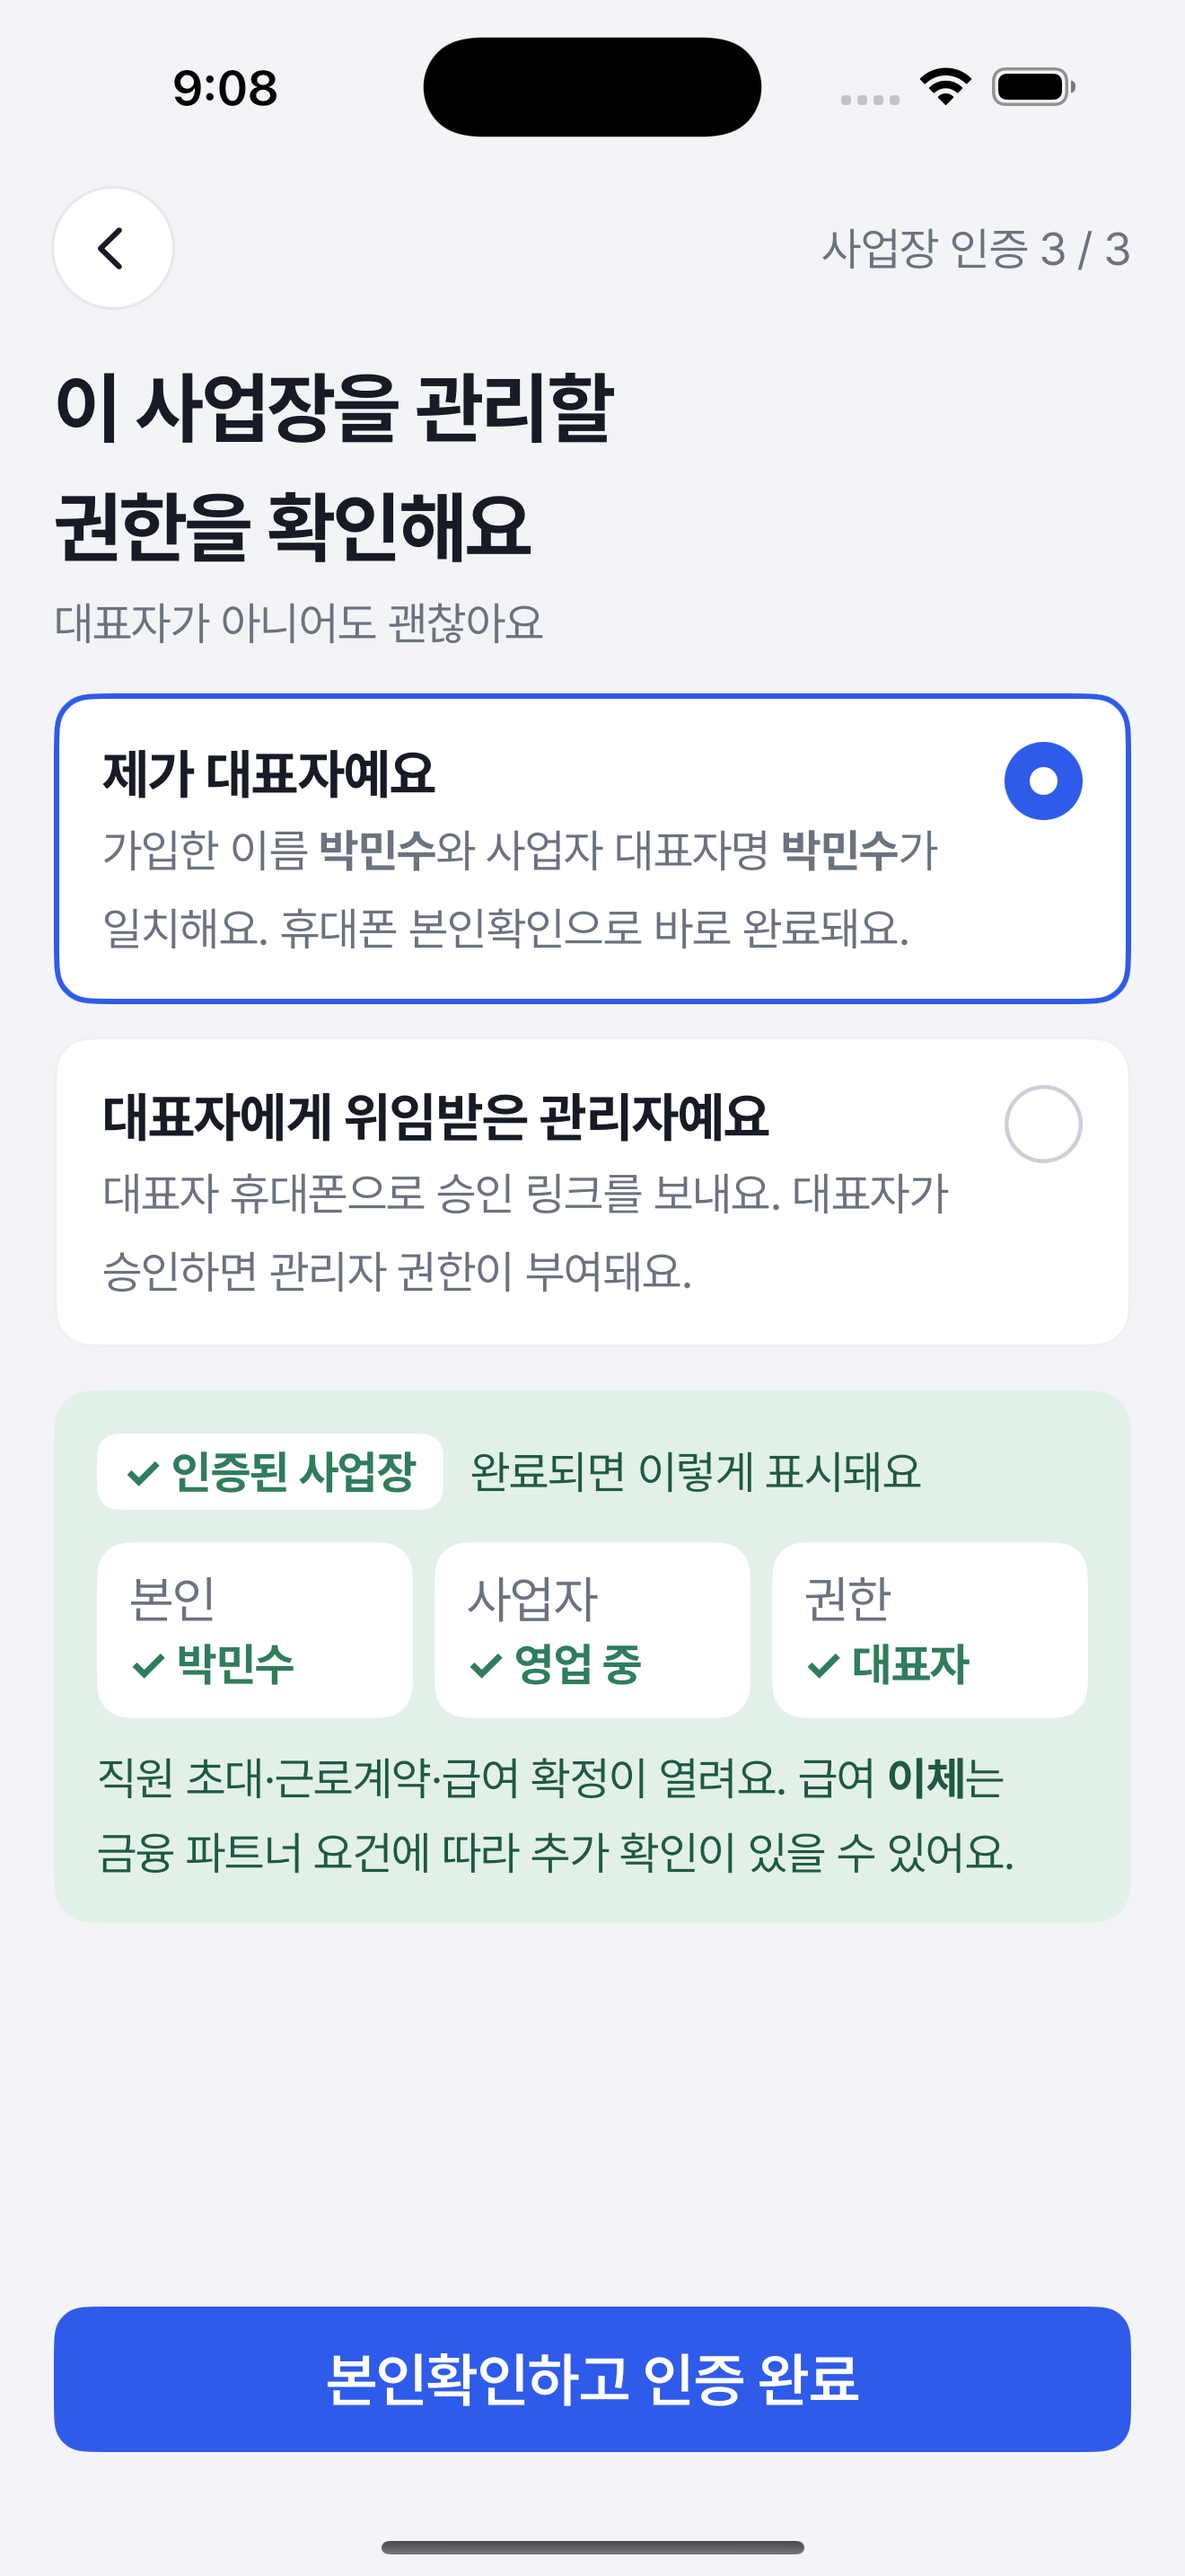
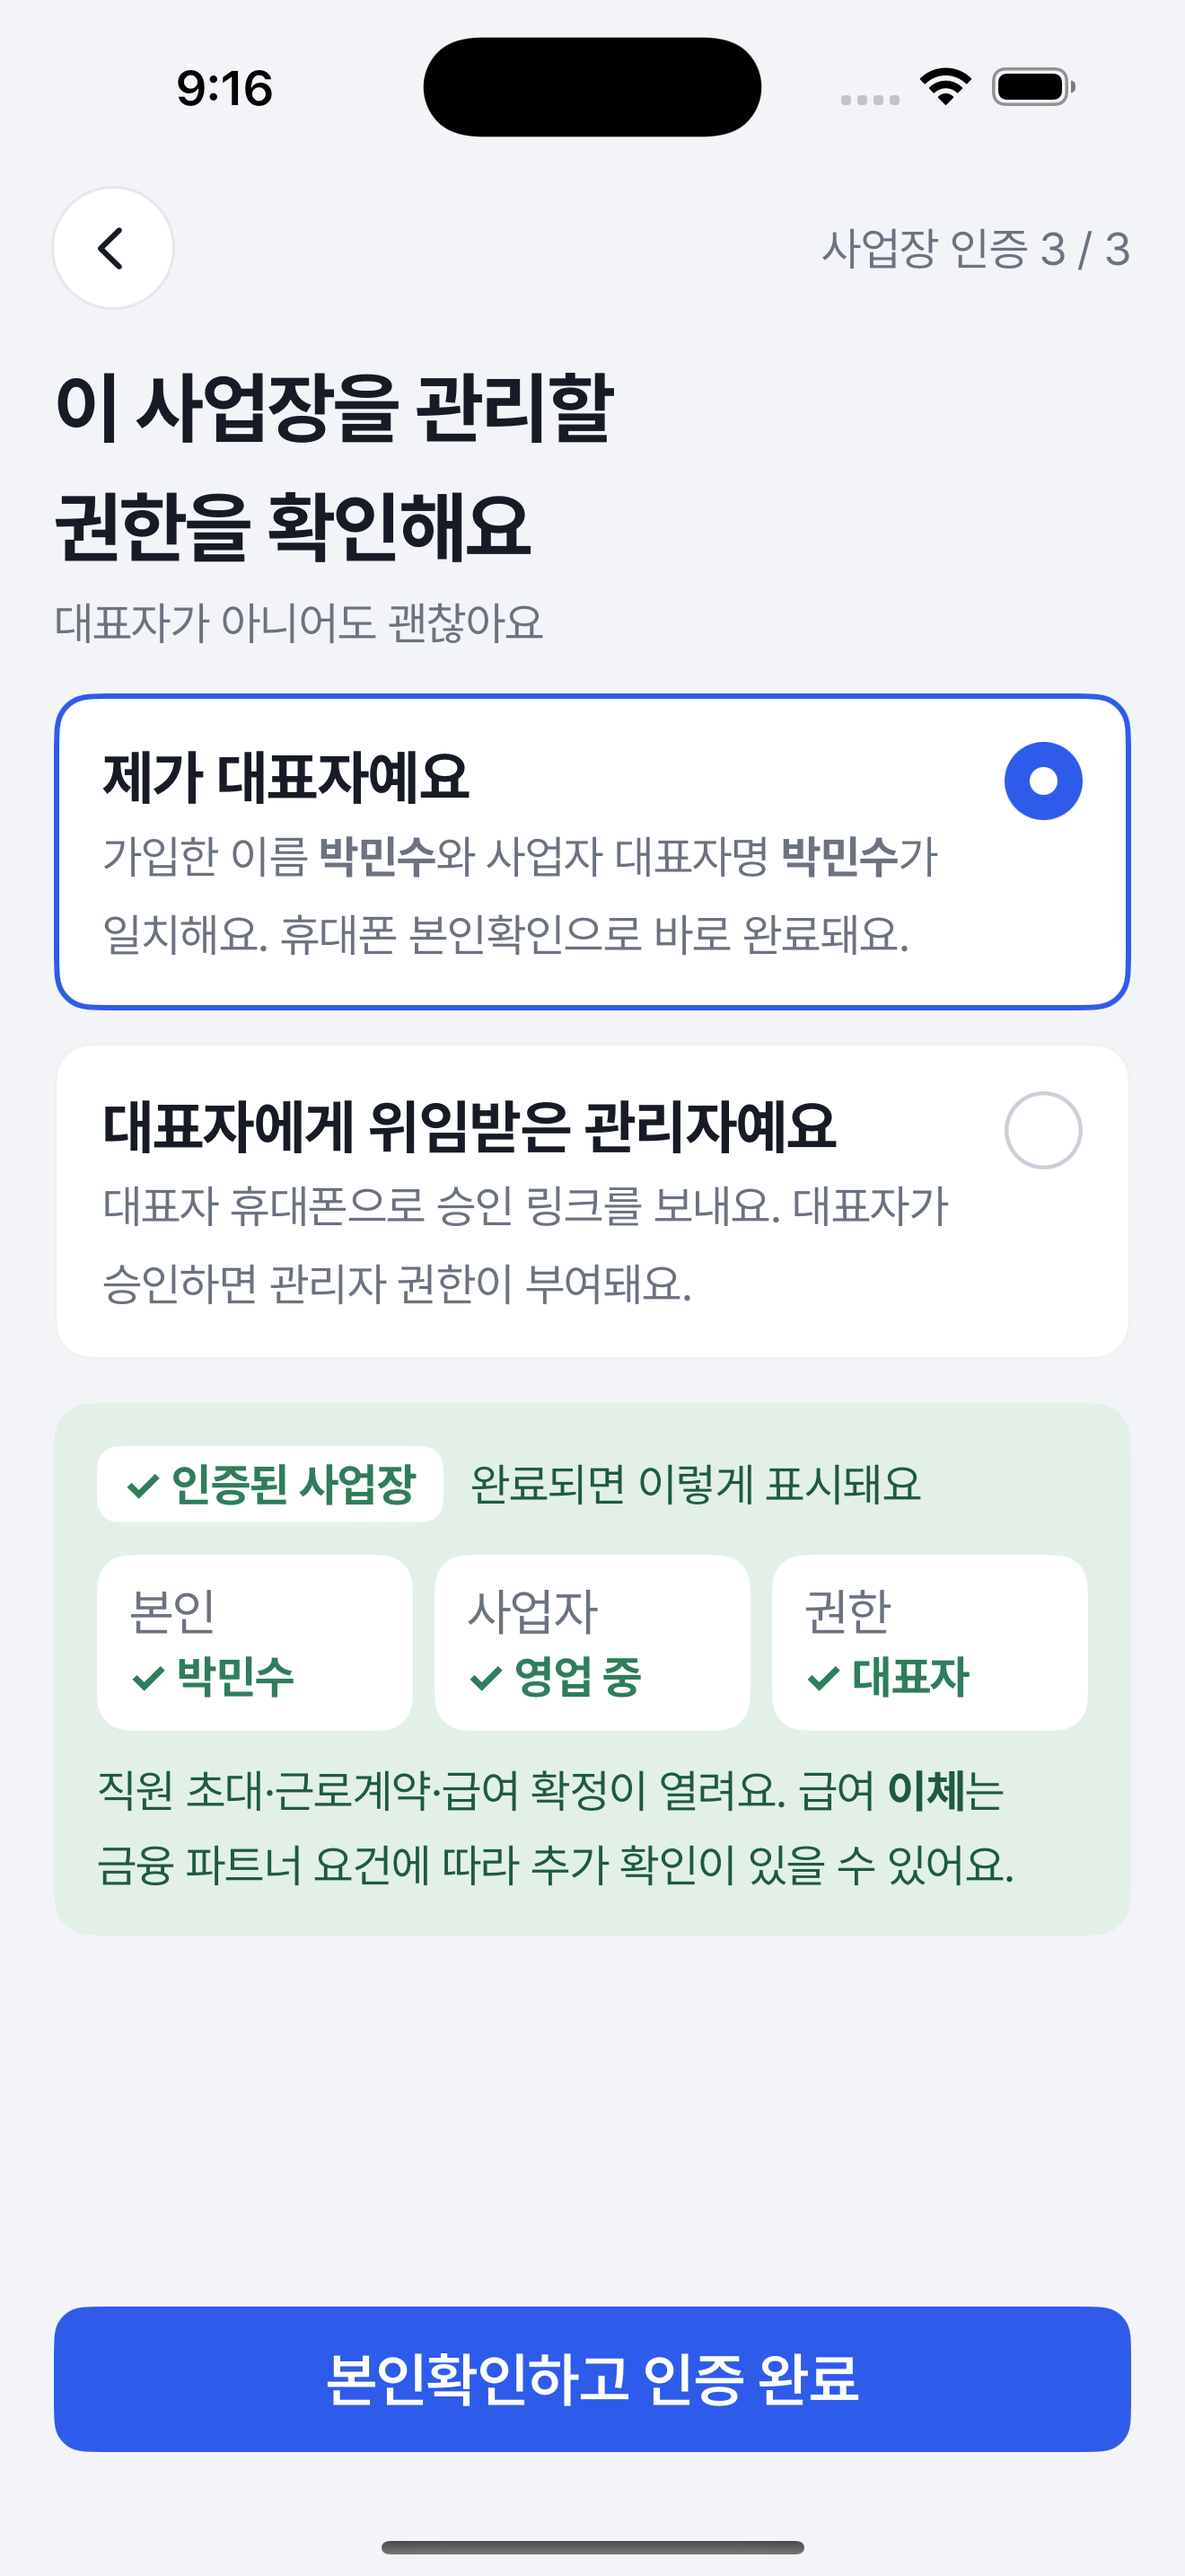
fix(workplace): 관리 권한 확인(5e) QA 반영 — 조사 · 음성 · 제목 단계
- 이름 받침에 맞게 와/과 · 가/이(문구는 원문 그대로)
- 미리보기 상자 음성에 배지 · 안내 문장 포함
- 카드 제목 글자 단계를 2c와 같은 headline으로
- 테스트 · 비교표 5e · 캡처 갱신

Refs #178 · UI-IOS-5e

Changed region(s): [[0.0621, 0.2793, 0.9629, 0.5275], [0.0932, 0.5586, 0.9008, 0.7448], [0.1553, 0.031, 0.2174, 0.0621]]

diff --git a/Pum/Pum/Features/Workplace/AuthorityVerify/AuthorityVerifyState.swift b/Pum/Pum/Features/Workplace/AuthorityVerify/AuthorityVerifyState.swift
@@ -29,10 +29,20 @@ nonisolated struct AuthorityVerifyState: Equatable, Sendable {
     static let previewLead = "완료되면 이렇게 표시돼요"
     static let noteBold = "이체"
 
+    /// 받침이 있으면 앞, 없으면 뒤 조사(「와/과」 · 「가/이」) — 문구는 원문 그대로, 이름에 맞는 조사만
+    static func particle(after word: String, withFinal: String, withoutFinal: String) -> String {
+        guard let last = word.unicodeScalars.last, (0xAC00...0xD7A3).contains(last.value) else { return withoutFinal }
+        return (last.value - 0xAC00) % 28 == 0 ? withoutFinal : withFinal
+    }
+    /// 「와」/「과」 — 가입한 이름 뒤
+    var signupNameParticle: String { Self.particle(after: signupName, withFinal: "과", withoutFinal: "와") }
+    /// 「가」/「이」 — 대표자명 뒤
+    var representativeParticle: String { Self.particle(after: representativeName, withFinal: "이", withoutFinal: "가") }
+
     /// 첫 카드 설명(굵기 없는 글자). 일치하지 않으면 첫 문장을 뺀다.
     var representativeDetailPlain: String {
         namesMatch
-            ? "가입한 이름 \(signupName)와 사업자 대표자명 \(representativeName)가 일치해요. \(Self.representativeTail)"
+            ? "가입한 이름 \(signupName)\(signupNameParticle) 사업자 대표자명 \(representativeName)\(representativeParticle) 일치해요. \(Self.representativeTail)"
             : Self.representativeTail
     }
 
@@ -41,7 +51,7 @@ nonisolated struct AuthorityVerifyState: Equatable, Sendable {
     }
 
     var previewAccessibilityText: String {
-        "완료되면, 본인 \(signupName) 확인, 사업자 \(businessStatus), 권한 \(authorityLabel)"
+        "\(Self.previewBadge), 완료되면, 본인 \(signupName) 확인, 사업자 \(businessStatus), 권한 \(authorityLabel). \(noteText)"
     }
 
     var canSubmit: Bool { !isSubmitting }

diff --git a/Pum/PumTests/Features/Workplace/AuthorityVerifyTests.swift b/Pum/PumTests/Features/Workplace/AuthorityVerifyTests.swift
@@ -19,12 +19,18 @@ struct AuthorityVerifyTests {
     }
 
     @Test func 미리보기_음성_안내() {
-        #expect(AuthorityVerifyState.sample.previewAccessibilityText == "완료되면, 본인 박민수 확인, 사업자 영업 중, 권한 대표자")
+        #expect(AuthorityVerifyState.sample.previewAccessibilityText.hasPrefix("인증된 사업장, 완료되면, 본인 박민수 확인, 사업자 영업 중, 권한 대표자. 직원 초대"))
     }
 
     @Test func 처리_중에는_다시_보내지_않는다() {
         var s = AuthorityVerifyState.sample
         s.isSubmitting = true
         #expect(!s.canSubmit)
+    }
+
+    @Test func 조사는_받침에_맞게() {
+        #expect(AuthorityVerifyState.particle(after: "박민수", withFinal: "과", withoutFinal: "와") == "와")
+        #expect(AuthorityVerifyState.particle(after: "홍길동", withFinal: "과", withoutFinal: "와") == "과")
+        #expect(AuthorityVerifyState.particle(after: "홍길동", withFinal: "이", withoutFinal: "가") == "이")
     }
 }

diff --git a/Pum/Pum/Features/Workplace/AuthorityVerify/AuthorityVerifyView.swift b/Pum/Pum/Features/Workplace/AuthorityVerify/AuthorityVerifyView.swift
@@ -89,7 +89,7 @@ struct AuthorityVerifyView: View {
     }
 
     private func cardTitle(_ s: String) -> some View {
-        Text(s).pumText(.body, weight: .bold).foregroundStyle(PumColor.textPrimary) // 16px 700
+        Text(s).pumText(.headline, weight: .bold).foregroundStyle(PumColor.textPrimary) // 16px 700 → headline(17), 2c와 같게
     }
 
     /// 이름만 굵게(13px 700)
@@ -104,9 +104,9 @@ struct AuthorityVerifyView: View {
         if state.namesMatch {
             part("가입한 이름 ", bold: false)
             part(state.signupName, bold: true)
-            part("와 사업자 대표자명 ", bold: false)
+            part("\(state.signupNameParticle) 사업자 대표자명 ", bold: false)
             part(state.representativeName, bold: true)
-            part("가 일치해요. ", bold: false)
+            part("\(state.representativeParticle) 일치해요. ", bold: false)
         }
         part(AuthorityVerifyState.representativeTail, bold: false)
         return Text(a).pumText(.footnote)

diff --git a/docs/design/compare/screens/README.md b/docs/design/compare/screens/README.md
@@ -633,3 +633,11 @@
 | 개업일 · 촬영 | 디자인 없음(값만) | 누름 클로저만 — 날짜 선택 · 카메라는 후속(실제 진입은 개업일을 채울 수 없어 연결 필요) | 후속 |
 | 조회 실패 · 휴업/폐업 | 디자인 없음 | 확인 중 잠금 · 실패면 풀림, 안내 문구 없음 | 디자인 필요 |
 | 등록번호 글자 | 22px 700 · 넓은 자간 | 화면 전용 이름 상수 | 토큰 후보 |
+
+## UI-IOS-5e 관리 권한 확인 — 사장님 (#178 · 배치 30)
+
+| 항목 | 디자인 | 구현 | 결과 |
+|---|---|---|---|
+| 배치 · 문구 | 사업장 인증 3 / 3 / 제목 · 안내 / 선택 카드 2(공통 PumChoiceCard) / 인증된 사업장 미리보기(본인 · 사업자 · 권한) · 안내 / 본인확인하고 인증 완료 | 같음 | 일치 |
+| 이름 조사 | 「박민수와 … 박민수가」 | 이름 받침에 맞게 와/과 · 가/이 자동(QA) | 구현 기준 |
+| 이름 불일치 · 위임 선택 | 디자인 없음 | 첫 문장 숨김 · 미리보기 · 버튼 문구 그대로 | 디자인 필요 |
